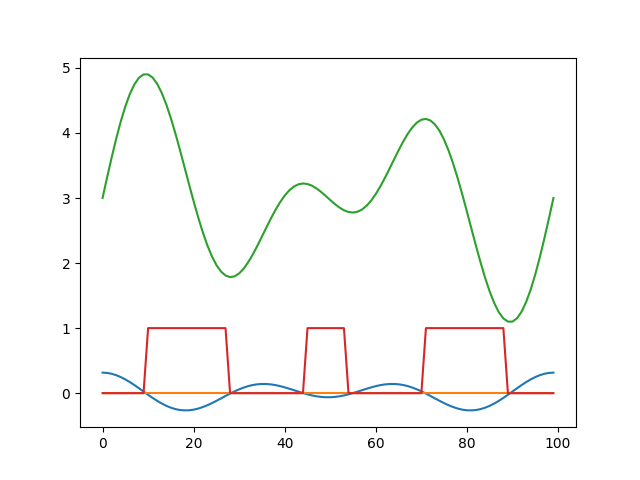
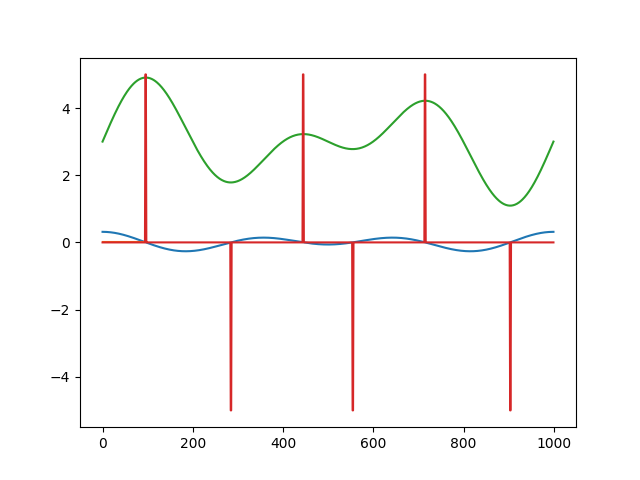
gradient extrema

diff --git a/find_extrema/extrema.py b/find_extrema/extrema.py
@@ -3,7 +3,7 @@ import matplotlib.pyplot as plt
 
 def create_function1():
 
-	x = np.linspace(0, 2*np.pi, 100)
+	x = np.linspace(0, 2*np.pi, 1000)
 	sin1 = np.sin(3*x)
 	sin2 = np.sin(2*x)
 	signal =  sin1 + sin2 + 3
@@ -66,7 +66,7 @@ def test2(s):
 	### gradient to find extrema
 	d0 = np.gradient(s)
 	dd = np.gradient(d0)
-	plt.plot(d0)
+	plt.plot(d0*10)
 	#plt.plot(dd*10)
 
 
@@ -86,11 +86,12 @@ def test2(s):
 
 	### get extrema points
 	cp = []
-	for i in range(len(s-2)):
-		if ( d0[i]<0 != d0[i+1]<0  ):
-			cp.append(1)
+	for i in range(len(s)):
+		if ( d0[i]<0 != d0[i]<=0  ):
+			cp.append(10)
 		else:
 			cp.append(0)
+	cp = np.gradient(cp)
 
 	null = np.linspace(0, 0, 100)
 	plt.plot(null )
